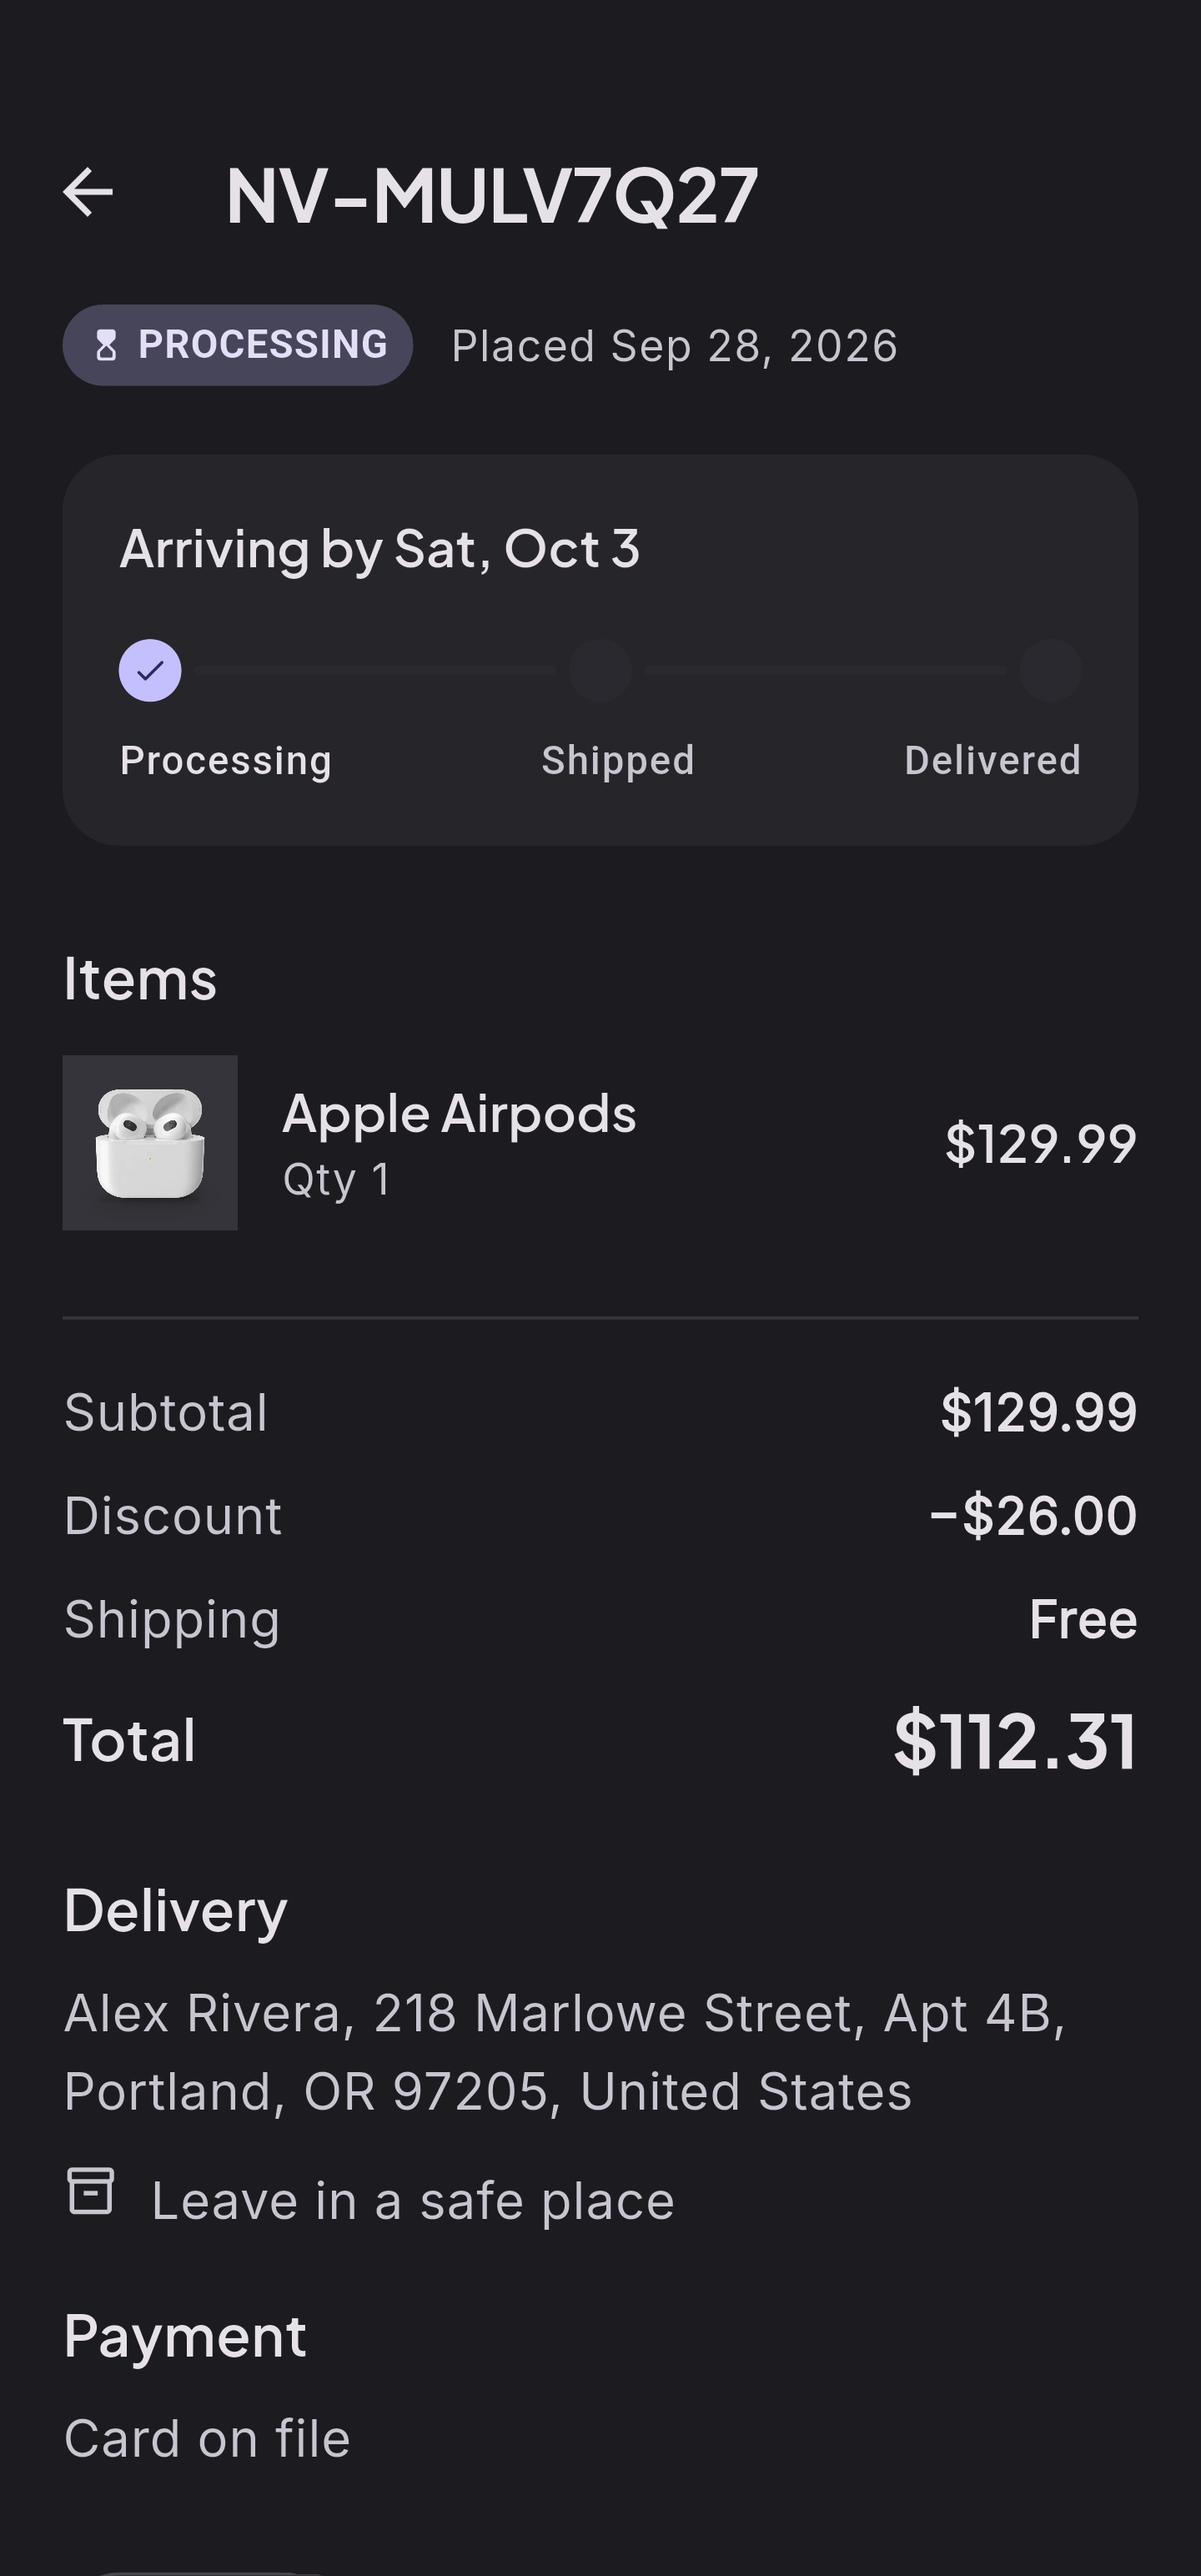
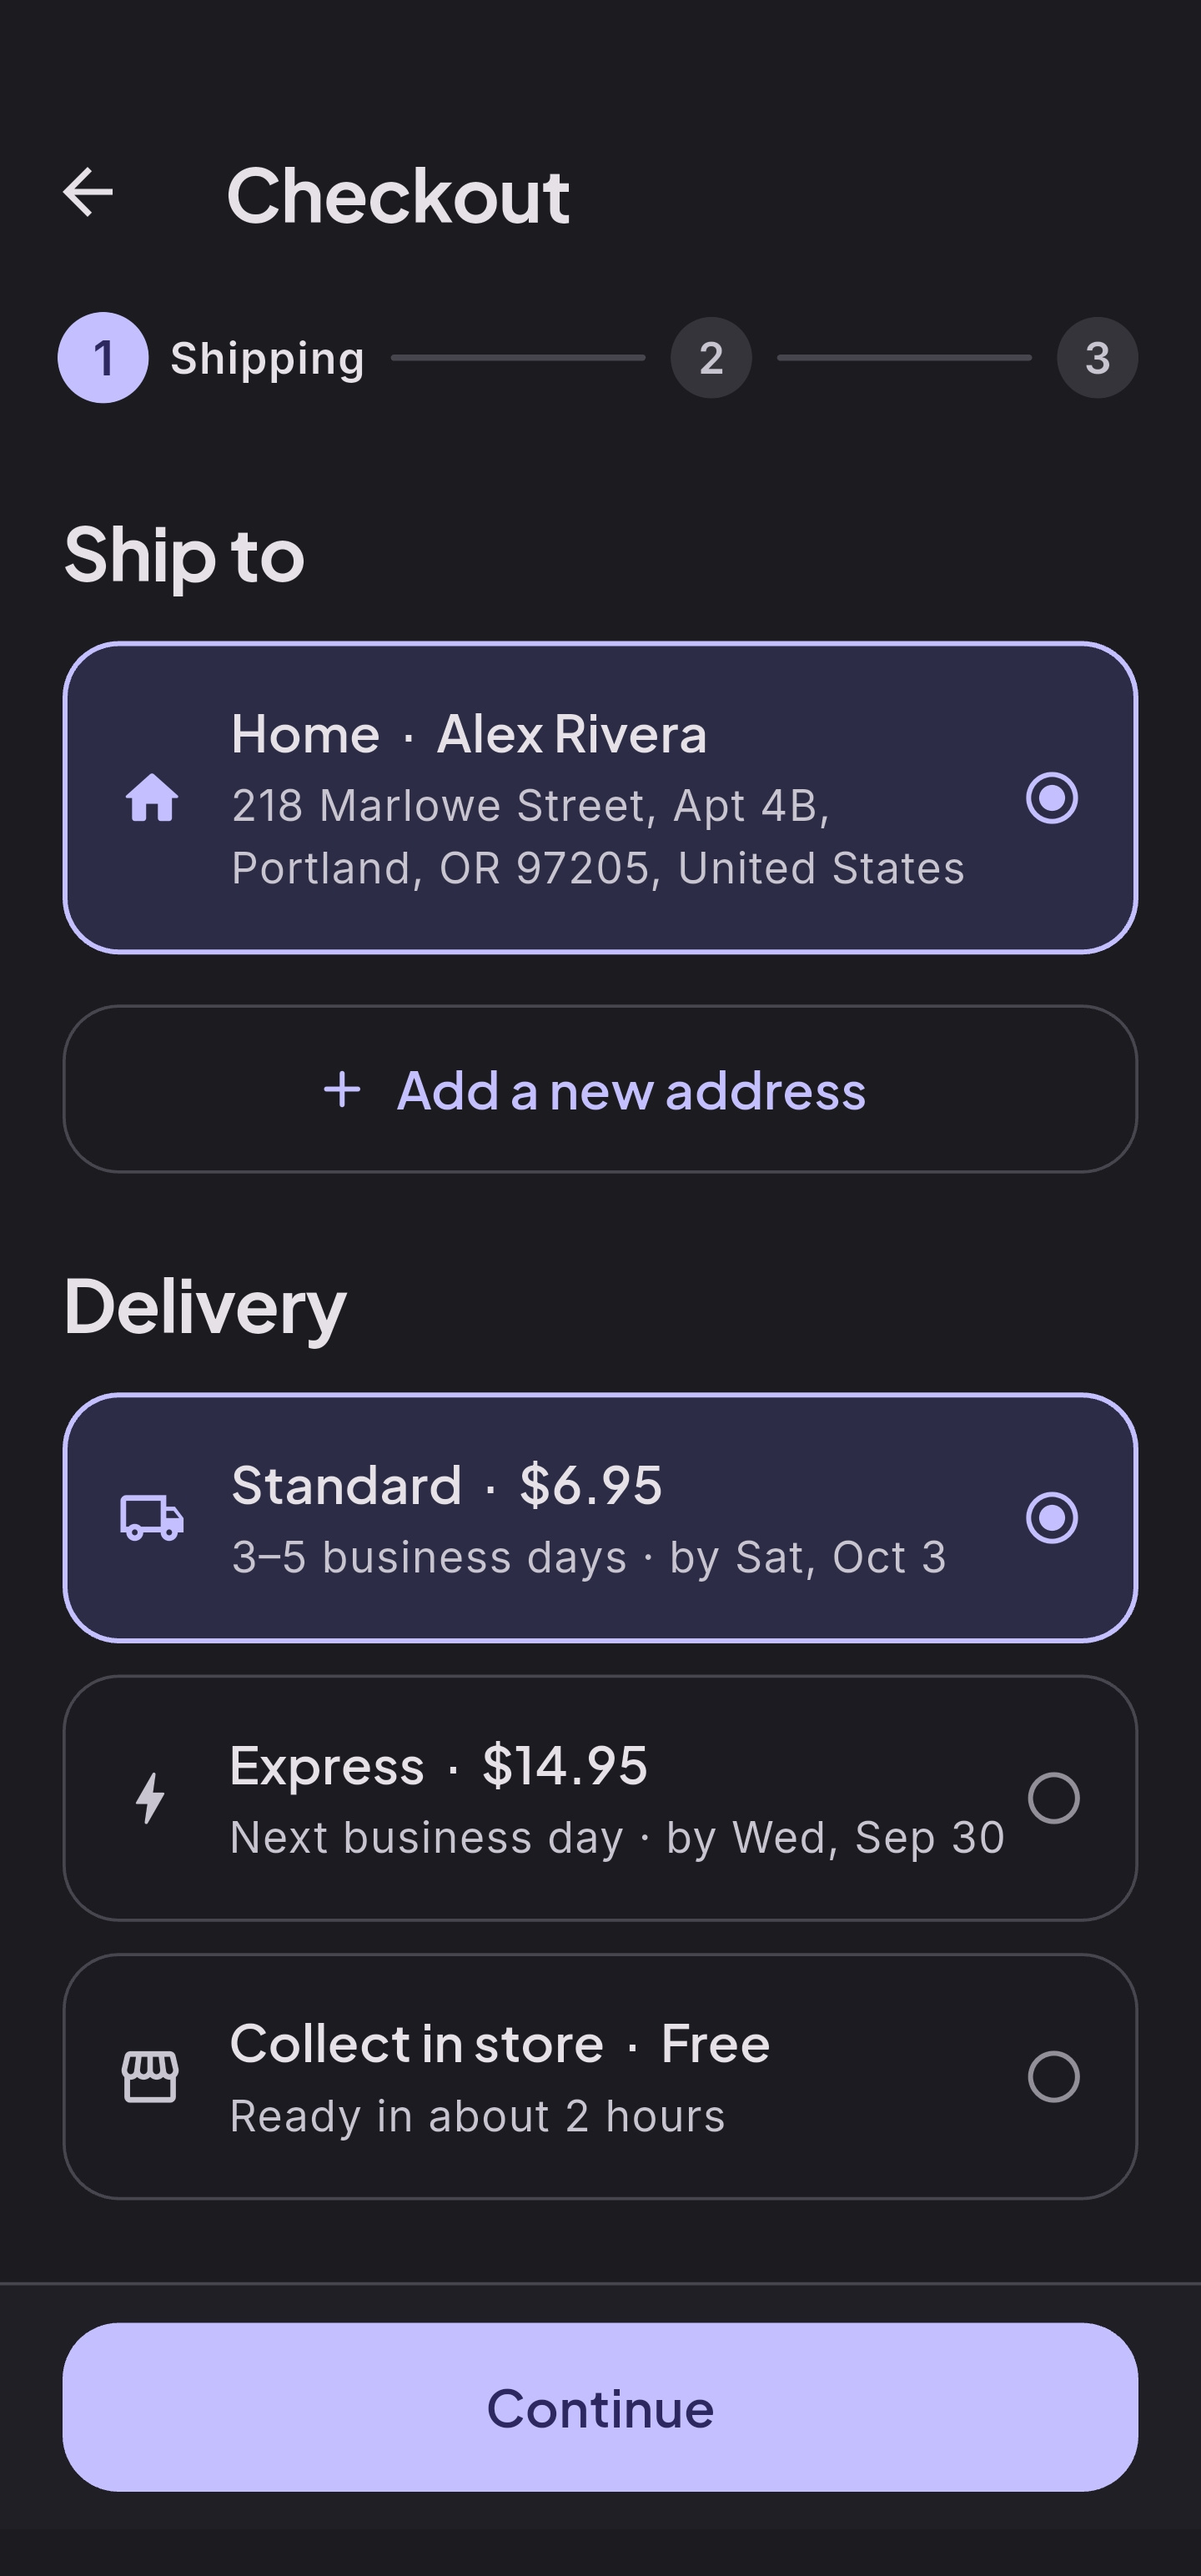
Update README.md

diff --git a/README.md b/README.md
@@ -26,7 +26,7 @@ Aster is a complete shopping application designed to look and feel like a modern
 
 | Checkout Stepper | Live Orders Tracker | AMOLED Black Theme |                                                           
 |:---:|:---:|:---:|
-| <img src="screenshots/Checkout_Screen.jpg" width="240" alt="Aster Checkout Screen"> | <img src="" width="240" alt="Aster Orders Screen"> | <img src="screenshots/AMOLED_Settings.jpg" width="240" alt="Aster AMOLED Black Mode"> |
+| <img src="screenshots/Checkout_Screen.jpg" width="240" alt="Aster Checkout Screen"> | <img src="screenshots/Live_Order_Screen.jpg" width="240" alt="Aster Orders Screen"> | <img src="screenshots/AMOLED_Settings.jpg" width="240" alt="Aster AMOLED Black Mode"> |
 | <sub>Biometrics & address forms</sub> | <sub>Real-time status stages</sub> | <sub>True-black UI surfaces</sub> |
 
 ---
